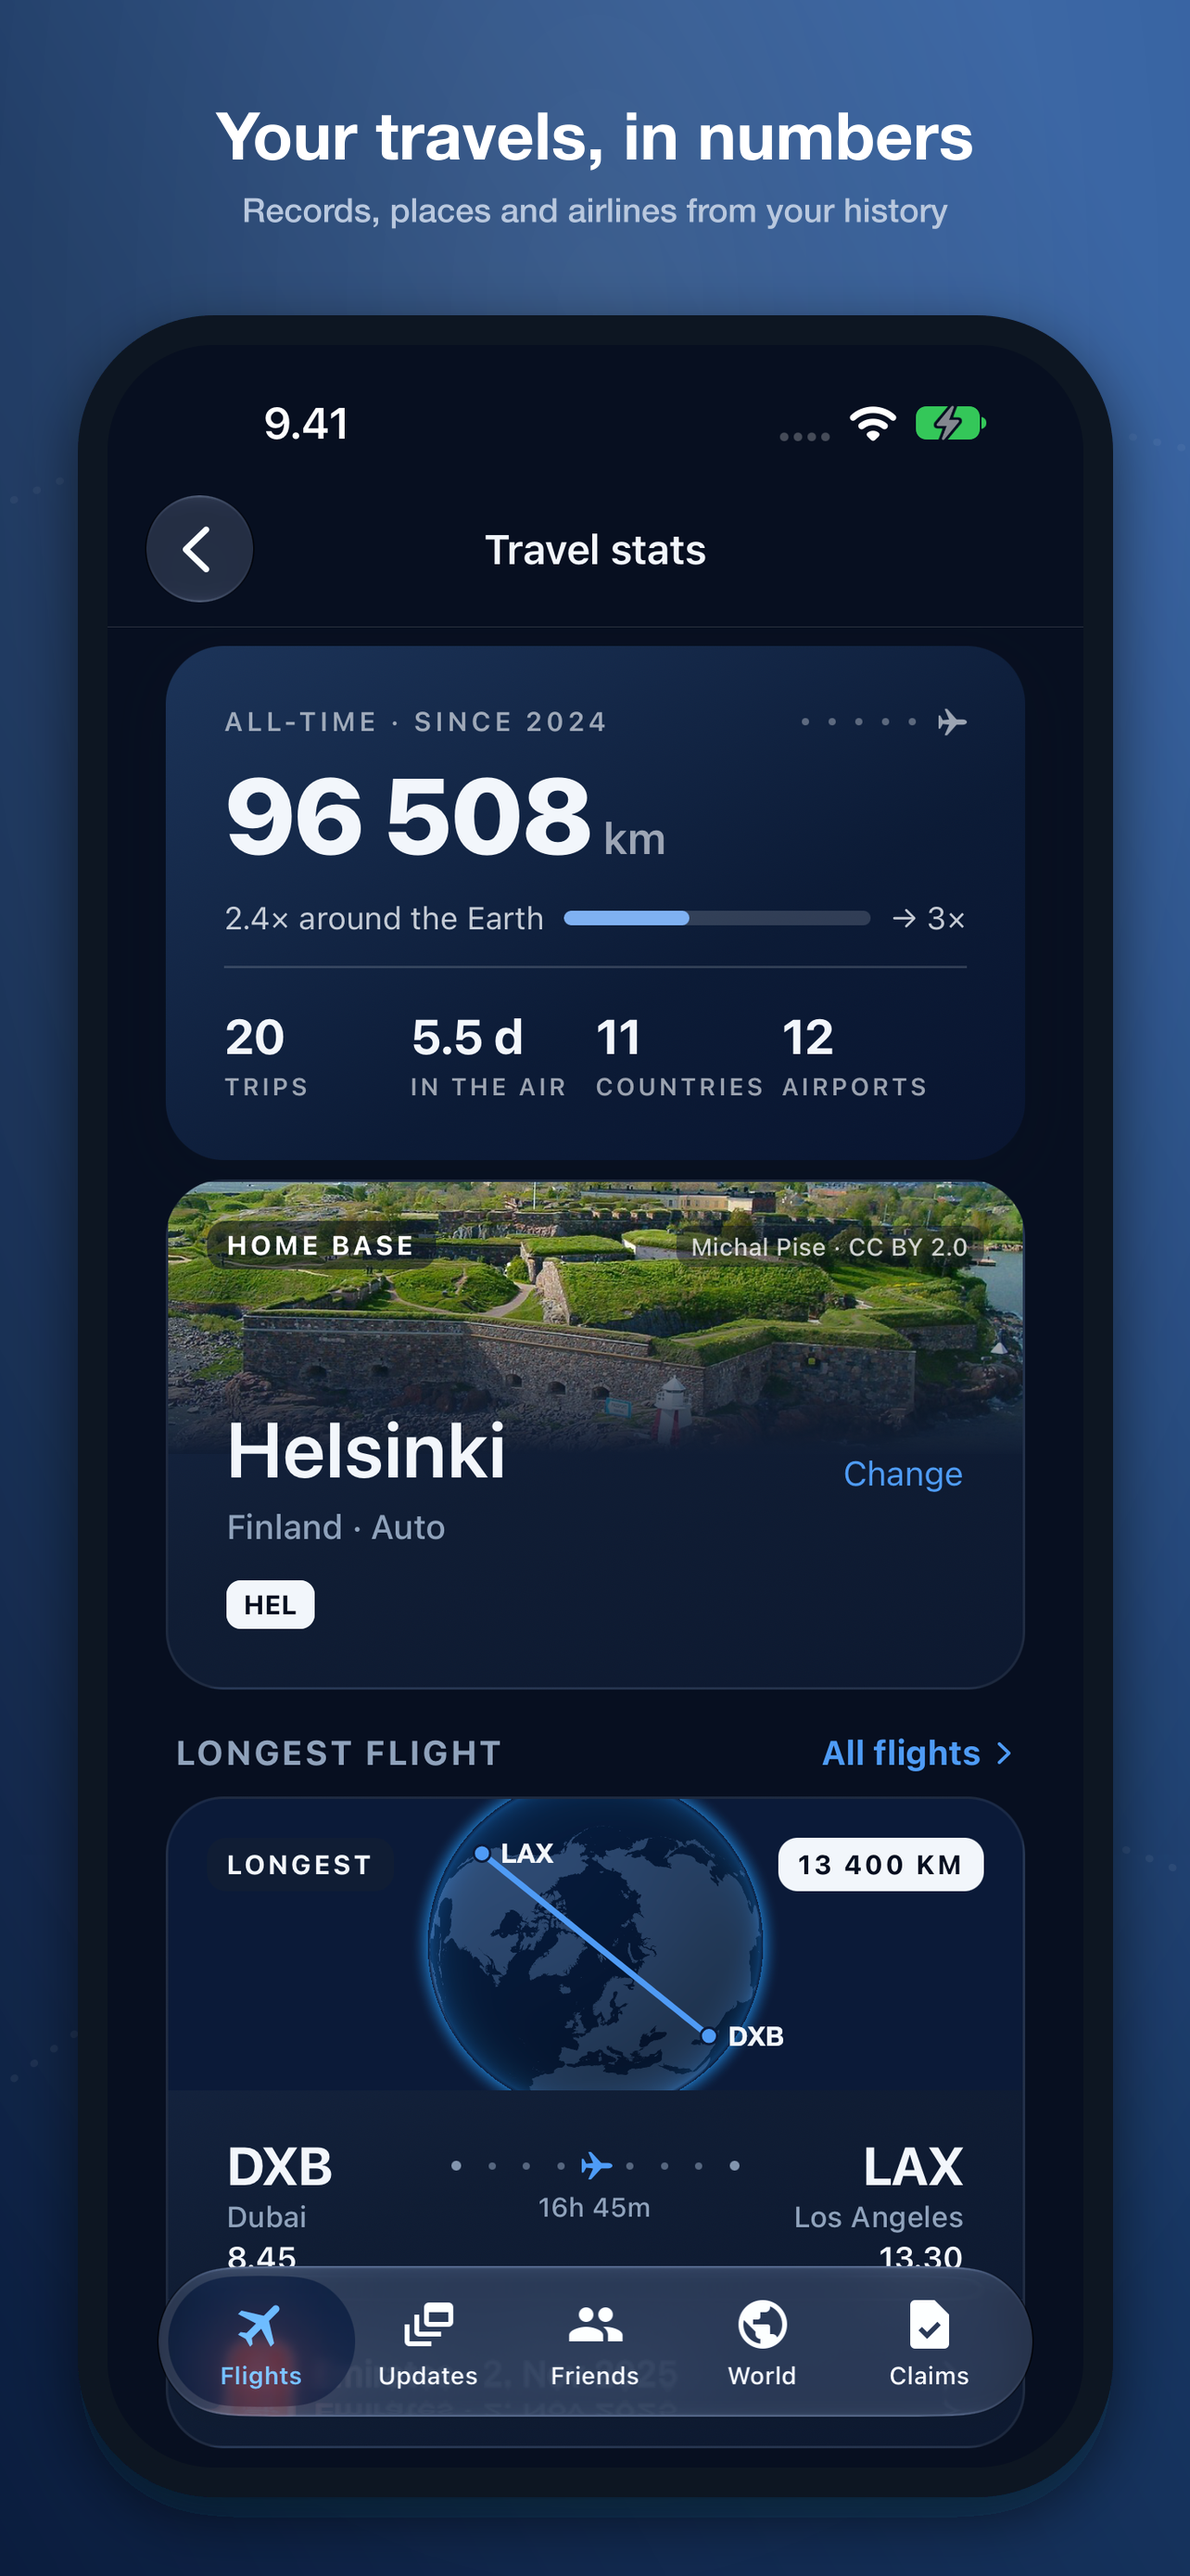
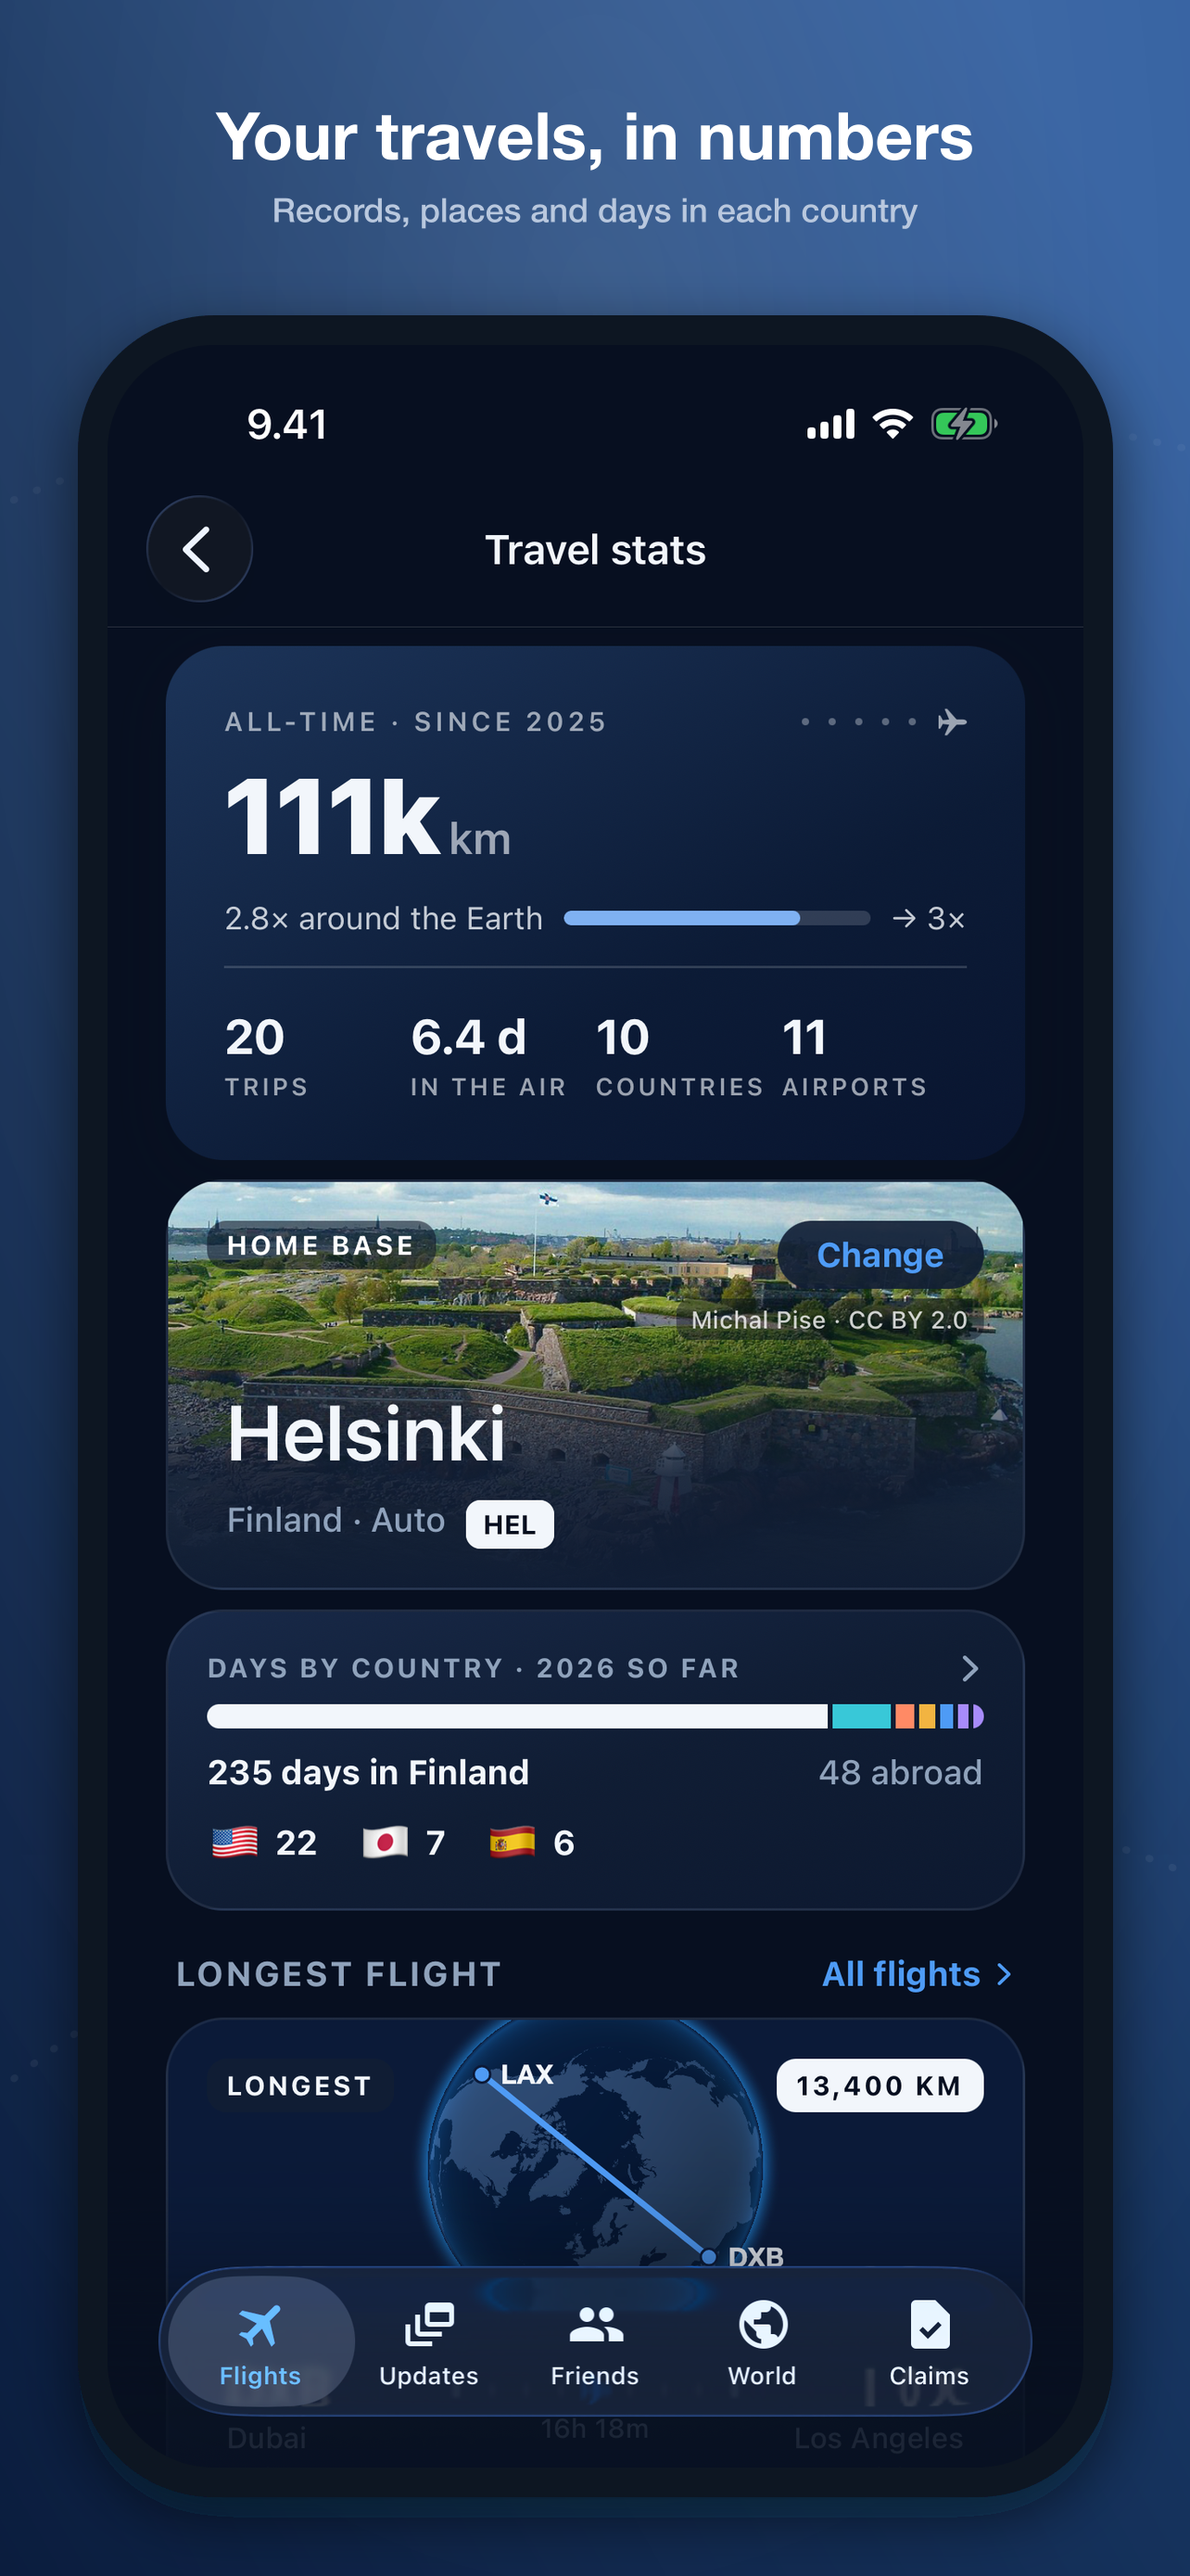
Release state: 1.1.7 (74/75) — Android on Play production, iOS in App Review
Store notes, reviewer notes and a reshot Travel stats panel (the demo
journal now has the flights home so Days by country reads like a year),
plus scripts/release/asc-replace-screenshot.mjs for swapping one App Store
screenshot in place.

diff --git a/docs/release-state.md b/docs/release-state.md
@@ -2,6 +2,23 @@
 
 Shared release log for Codex and Claude. Read before a release and prepend dated observations afterwards. Query EAS and both stores before acting; this file records observations, not automatically refreshed status. Follow [release-workflow.md](release-workflow.md).
 
+## 2026-09-29 — 1.1.7 (iOS 74, Android 75): days by country, stays by country abroad, friends' grouping — Android on production, iOS in App Review
+
+1.1.6 reached the App Store (READY_FOR_SALE) during this release; iOS was held at TestFlight until then so the 1.1.6 review kept its place.
+
+| Item | Observed result |
+| --- | --- |
+| Code | `ebfd46f` grouping (trips end at home, automatic home for grouping, friends get the owner's per-trip home from `circle.travelOf`); `f627abb` stays named by country abroad / city at home from the home at the time; `d31ed9f` Days by country (`services/country-days`, Travel stats card, Places › Days, `stats/days/[country]`, `docs/country-days.md`) + `CityPhotoCard` for Home base and Top destination; `f47fb03` white plane with blue outline; `ff33e95` + `2440592` Settings plan name (`services/plan-label`); `f39f5b2` fixes found in local release testing (Top destination line cut off, "in the United Kingdom"); `3a6974c` bump + notes. Earlier since 1.1.6: `facb7c4` Quick Look + readable document names, `a289276` automatic home by take-offs + ground days. Suite **1,352 tests**; typecheck and eslint clean. |
+| Backend | Grouping server change deployed to production on 2026-09-28 before the builds (optional fields, old clients unaffected); `release:deploy-backend` again after the bump: **81** functions on production and development; `release:preflight` passed; `release:journal` passed on the owner's journal and Siraj's. |
+| Local release testing (before any EAS build) | Production-config Release builds: iOS 1.1.6-code Release on iPhone 17 sim `53F70378` over 1.1.1; Android release APK on Pixel_API33 (Android 13) over 1.1.4. `release:devices --mode candidate` **passed on both** (App Review account, two cold starts, retained trip/photo, Friends, World). `release-matrix.yaml` signed-out-without passed on Android. Changed screens captured and read on both (Days card, Places › Days with UK midnights, cards, World, Settings). |
+| Hosting | Exported and deployed `gvqa3etxd6`; `getflyright.com` serves `entry-104ed183…` matching the export (flyright.expo.app kept the old HTML for up to an hour — edge `s-maxage=3600`; `deploy:alias` was run). `/api/app-version` on getflyright.com returns the notes. `.env.production.local` removed. |
+| iOS | Local Xcode 27 build `FlyRight-1.1.7-74.ipa` verified `1.1.7 (74)`, `iphoneos27.0`. **Upload by the owner** (`eas submit` was refused by the permission classifier as a production deploy): submission `61672952`, build `4b68ca9a` **VALID**, internal TestFlight. Version `8b3e9eb6` created with build 74, `AFTER_APPROVAL`, What's New `store/apple/whats-new-1.1.7.txt` on `ee1bef64`, reviewer notes `review-notes-1.1.7.txt` on `72a1a622` (demo account kept). Review submission **`a7098e5c-f30e-49cb-a583-72d1d8deb35e` WAITING_FOR_REVIEW**. |
+| Android | EAS build `06bcb23a-e2e3-4a9e-9267-c4bf349bbc33` FINISHED 1.1.7 (75); submission `a494360c` FINISHED to internal. **Play production** edit `17377773607971936663`: `1.1.7 (75)` `completed`, notes `store/google/release-notes-1.1.7.txt` (450 chars). |
+| Physical Pixel 9a | Universal APK from the store AAB (bundletool, default `~/.android/debug.keystore` — the key the sideloaded 1.1.6 carried) over 1.1.6 (74), non-debuggable. `release-signed-in.yaml` **passed** (retained photo renders), `release-matrix.yaml` signed in with trips **passed** (Days card, Home base card). No FlyRight crash/ANR in dropbox. `screen_off_timeout` restored to 30000. Evidence `.maestro/out/release/1.1.7-75-pixel/`. |
+| Physical iPhone 15 Pro | TestFlight **1.1.7 (74)** installed by the owner. Unlocked; two `devicectl` cold starts alive >35 s; crash logs 8 → 8; XCTest `testAllTabsAcrossTwoColdStarts` **passed** (144 s), signed in with trips ("4 days in Japan", white plane on World). Evidence `.maestro/out/physical-ios-tabs-1.1.7-74/`. |
+| Screenshots | Travel stats panel reshot (it showed the old Home base card and no Days card): demo journal in `scripts/seed-demo-data.mjs` now has the flights home so Days by country reads "235 days in Finland · 48 abroad"; captured signed out on Release builds pointed at dev (iPhone 17 sim 1206×2622, FlyRight_Dev emulator 1080×2424 seeded through the debug build then the release APK installed over it), caption "Records, places and days in each country". App Store: `APP_IPHONE_65` #6 replaced with `scripts/release/asc-replace-screenshot.mjs`; Play: `upload-play-assets.mjs` committed. iPad set unchanged. |
+| Dev apps | iOS sim `AA6A8347` Debug **1.1.7 (74)**, Android `FlyRight_Dev` (now `emulator-5554`) Debug **1.1.7 (75)**, Metro 8082. `release:devices --mode native` **passed on iOS**; **Android blocked** by the emulator's own "Process system isn't responding" dialog (system_server under memory pressure; app itself loaded) — not an app failure, rerun when the Mac is less loaded. |
+
 ## 2026-09-28 — 1.1.6 (iOS 73, Android 74): kept booking documents, arrival-date fixes — Android on production, iOS in App Review
 
 Triggered by a traveller's (Siraj's) report: booking-PDF imports stored arrival dates taken from elsewhere on the page (AA79 LHR→DFW "landing" 12 days later → "1 day in the US"). His five rows were repaired on production separately (`devTools:repairArrivals`, dry run first) and a production scan (`devTools:scanArrivals`) found no other affected traveller.
